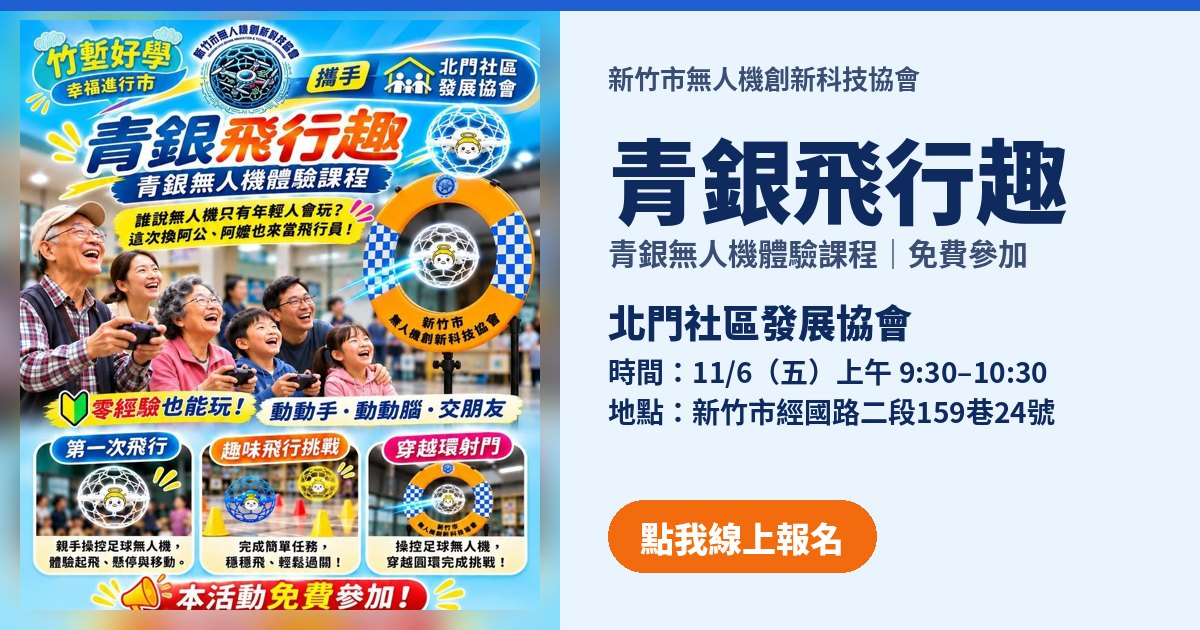
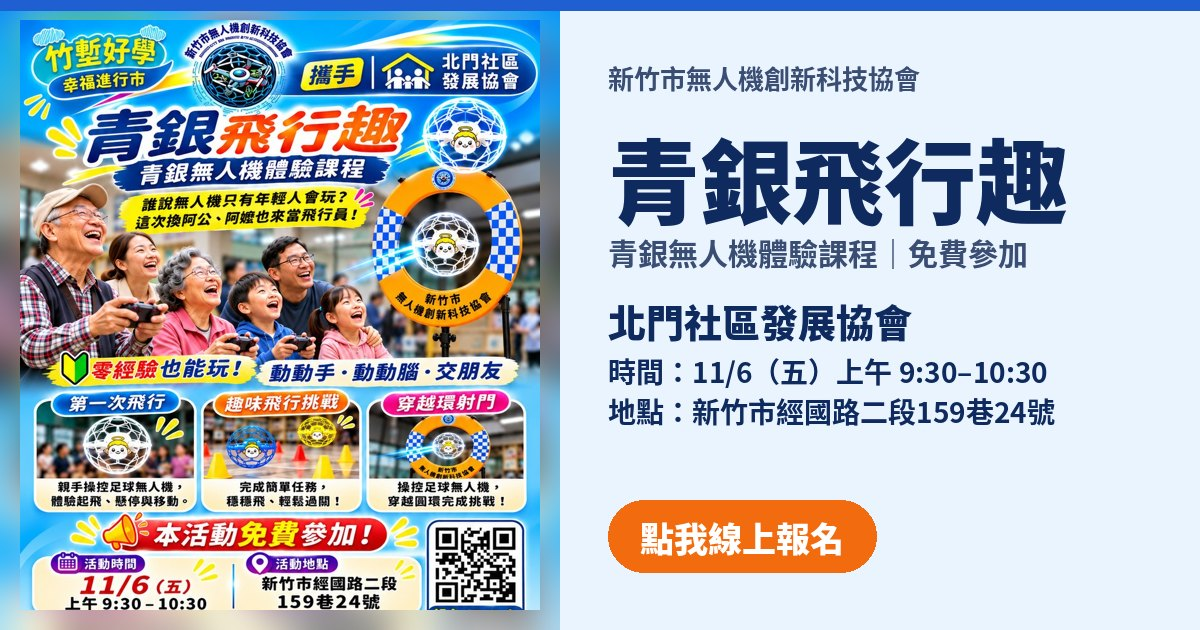
北門換新海報（含報名 QR，指向 beimen/），重新產生北門分享縮圖；海報網址加版本號避免快取
Claude-Session: https://claude.ai/code/session_01Q3ebcVtxuHzfE3YEkG5ikA

diff --git a/index.html b/index.html
@@ -26,7 +26,7 @@
 // 有代碼 → 一打開就先下載海報，不等其他東西
 (function(){try{var c=(new URLSearchParams(location.search).get("c")||"").trim().toLowerCase();
 if(!c){location.replace("admin.html");return;}
-if(c){var l=document.createElement("link");l.rel="preload";l.as="image";l.href="poster-"+encodeURIComponent(c)+".jpg";document.head.appendChild(l);}}catch(e){}})();
+if(c){var l=document.createElement("link");l.rel="preload";l.as="image";l.href="poster-"+encodeURIComponent(c)+".jpg?v=2";document.head.appendChild(l);}}catch(e){}})();
 </script>
 <style>
 :root{
@@ -297,7 +297,7 @@ footer a{font-family:var(--f-round);font-weight:400;font-size:24px;color:var(--r
     info.hidden = !info.children.length;
     document.title = (CFG.EVENT_TITLE || "活動") + "報名｜" + c.name;
     // 海報：poster-社區代碼.jpg，有就整張顯示在最上面
-    const src = "poster-" + encodeURIComponent(c.code) + ".jpg";
+    const src = "poster-" + encodeURIComponent(c.code) + ".jpg?v=2"; // 換海報時把 v 加 1（跟上面 preload 一起改）
     const img = $("#poster");
     if (img.dataset.src !== src) {
       img.dataset.src = src;
